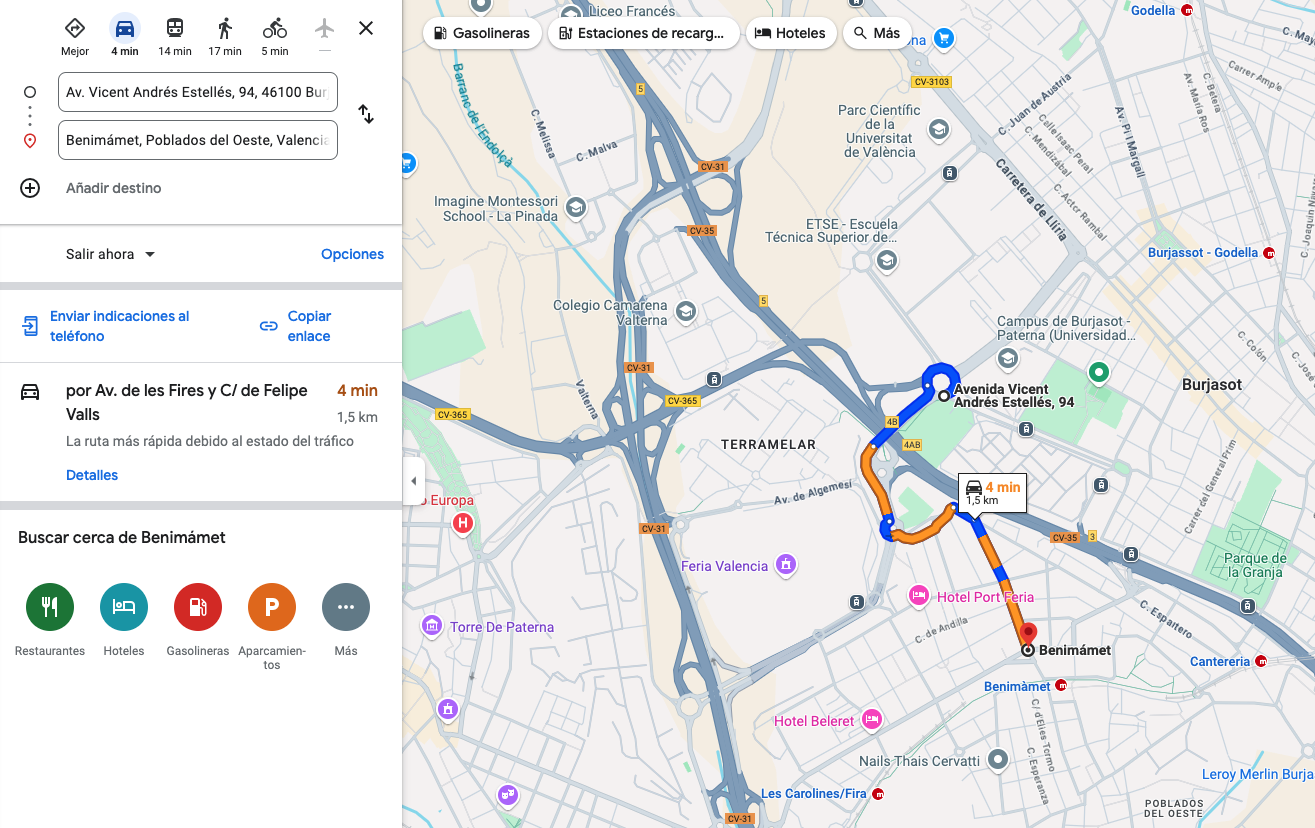
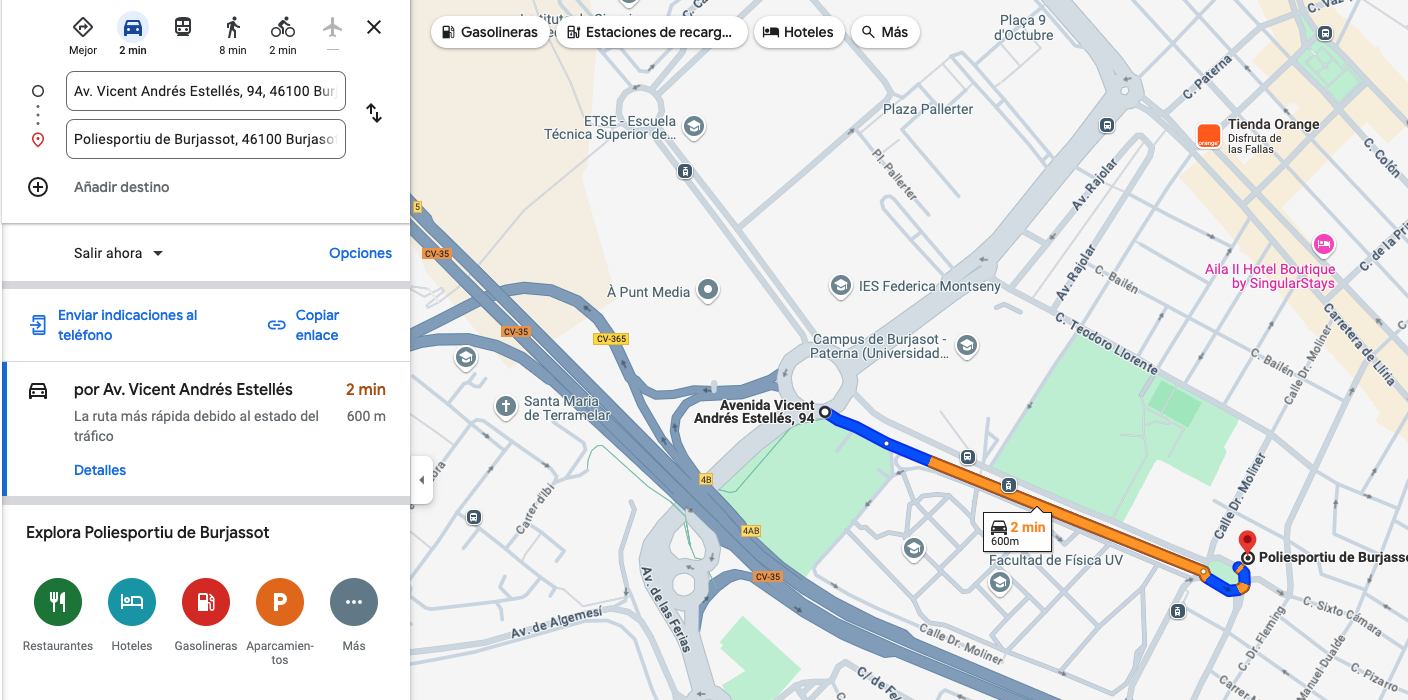
save api

diff --git a/Alumnos/FS/Adriana_Campos/Dataflow/codigo/run.py b/Alumnos/FS/Adriana_Campos/Dataflow/codigo/run.py
@@ -17,7 +17,7 @@ def obtener_coordenadas(direccion):
 
 # Direcciones que deseas geocodificar
 initial_coordinates = 'Avinguda de Vicent Andrés Estellés 94, 46100 Burjassot, Valencia, Spain'
-final_coordinates = 'Benimàmet, Valencia, Spain'
+final_coordinates = 'Poliesportiu de Burjassot, Valencia, Spain'
 
 # Obtiene las coordenadas iniciales y finales
 coordenadas_iniciales = obtener_coordenadas(initial_coordinates)

diff --git a/Alumnos/FS/Adriana_Campos/Dataflow/codigo/api/api_geolocalizacion.py b/Alumnos/FS/Adriana_Campos/Dataflow/codigo/api/api_geolocalizacion.py
@@ -16,7 +16,7 @@ def obtener_coordenadas(direccion):
 
 # Direcciones que deseas geocodificar
 initial_coordinates = 'Avinguda de Vicent Andrés Estellés 94, 46100 Burjassot, Valencia, Spain'
-final_coordinates = 'Benimàmet, Valencia, Spain'
+final_coordinates = 'Poliesportiu de Burjassot, Valencia, Spain'
 
 
 # Obtiene las coordenadas iniciales y finales

diff --git a/Alumnos/FS/Adriana_Campos/Dataflow/readme.md b/Alumnos/FS/Adriana_Campos/Dataflow/readme.md
@@ -27,7 +27,7 @@ A continuación se adjunta imagenes del trabajo entregable de cloud.
 Vamos usar una API para que nosotros le digamos la calle y nos devuelva la coordenada incial y final. Teniendo en cuenta estas coordenadas ejecutara en generador.
 
 <p align="center">
-    <img src="imagenes/ruta_camara.png" alt="Texto alternativo" width="400"/>
+    <img src="imagenes/ruta_camara.png" alt="Texto alternativo" width="500"/>
 </p>
 
 Nosotros ejecutamos directameente el siguiente comando, este script le pasa las coordenadas al generador y este envia datos al topic de PubSub.
@@ -39,14 +39,14 @@ python run.py
 En la siguiente imagen vemos los datos en el topic:
 
 <p align="center">
-    <img src="imagenes/pubSub_input.png" alt="Texto alternativo" width="400"/>
+    <img src="imagenes/pubSub_input.png" alt="Texto alternativo" width="500"/>
 </p>
 
 
 Insertamos en BIG Query, en la tabla *Camara_raw* la información que tenemos en PubSub
 
 <p align="center">
-    <img src="imagenes/input_BQ.png" alt="Texto alternativo" width="400"/>
+    <img src="imagenes/input_BQ.png" alt="Texto alternativo" width="500"/>
 </p>
 
 # DATAFLOW Pipeline
@@ -63,7 +63,7 @@ python pipeline.py \
 ```
 
 <p align="center">
-    <img src="imagenes/pubSub_output.png" alt="Texto alternativo" width="400"/>
+    <img src="imagenes/pubSub_output.png" alt="Texto alternativo" width="500"/>
 </p>
 
 
@@ -73,16 +73,16 @@ python pipeline.py \
 Insertamos en la tabla *Camara_fined* la inforamcion que tenemos en PubSub filtrando solo los is_Ticketed= fined.
 
 <p align="center">
-    <img src="imagenes/output_BQ_fined.png" alt="Texto alternativo" width="400"/>
+    <img src="imagenes/output_BQ_fined.png" alt="Texto alternativo" width="500"/>
 </p>
 
 
 # Big Query Output
 
 <p align="center">
-    <img src="imagenes/coche1.png" alt="Texto alternativo" width="400"/>
+    <img src="imagenes/coche1.png" alt="Texto alternativo" width="500"/>
 </p>
 
 <p align="center">
-    <img src="imagenes/coche2.png" alt="Texto alternativo" width="400"/>
+    <img src="imagenes/coche2.png" alt="Texto alternativo" width="500"/>
 </p>
